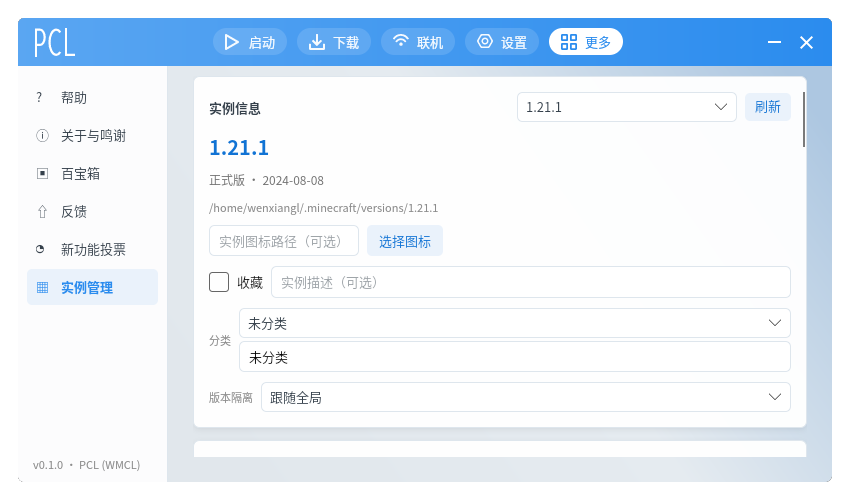
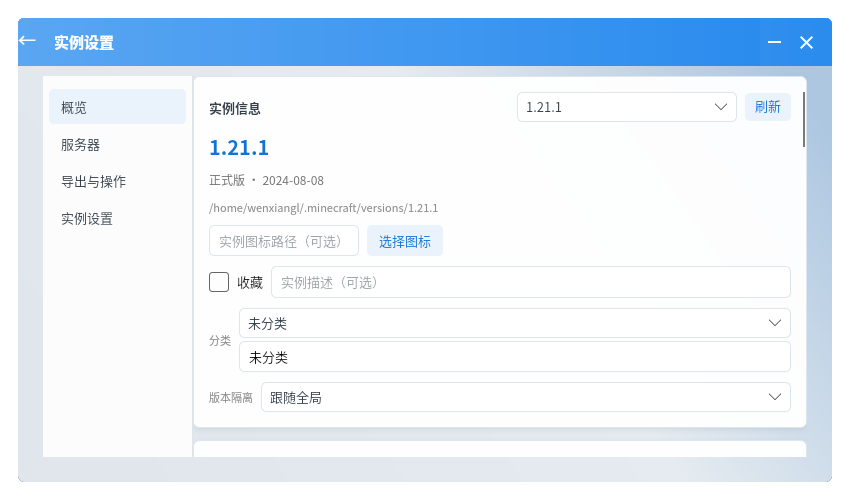
UI: instance section navigation

Changed region(s): [[0.0, 0.06, 0.2447, 0.99], [0.2447, 0.03, 0.7341, 0.12]]

diff --git a/src/WMCL.App/Views/InstanceView.axaml.cs b/src/WMCL.App/Views/InstanceView.axaml.cs
@@ -4,6 +4,21 @@ namespace WMCL.App.Views;
 
 public partial class InstanceView : UserControl
 {
+    private void OnSectionChanged(object? sender, SelectionChangedEventArgs e)
+    {
+        var index = SectionList?.SelectedIndex ?? -1;
+        if (index < 0) return;
+        var target = index switch
+        {
+            0 => OverviewCard,
+            1 => ServerCard,
+            2 => ExportCard,
+            3 => SettingsCard,
+            _ => null
+        };
+        target?.BringIntoView();
+    }
+
     private async void OnChooseExportPathClick(object? sender, Avalonia.Interactivity.RoutedEventArgs e)
     {
         if (DataContext is not ViewModels.InstanceViewModel viewModel) return;

diff --git a/docs/UI_LOGIC_AUDIT.md b/docs/UI_LOGIC_AUDIT.md
@@ -21,7 +21,7 @@
 | 8 | ~~`Filters`/`SelectedFilter` 死状态~~ | 已移除启动页筛选状态和无用过滤方法 |
 | 9 | ~~下载页对已安装版本禁用“安装”~~ | 已允许对已安装版本重新下载/补全（仍会走安装器的跳过/SHA1 逻辑） |
 | 10 | 下载页加载器仍是单独安装按钮；组合安装已改成“基础加载器 + OptiFine”组件选择 | 尚未做到 PCL2 的完整组件勾选 |
-| 11 | 实例页已取消重复列表，改为全宽卡片 + 顶部实例下拉；“更多”中的自定义“实例管理”已移除，改由版本选择进入 | 实例子导航项仍不完整 |
+| 11 | 实例页已加 150px 分区导航（概览/服务器/导出/设置）+ 全宽卡片；“更多”中的自定义“实例管理”已移除 | 分区项仍少于 PCL-CE |
 | 12 | Mod/整合包页仍是“列表 + 详情”双卡片 | 页面结构不同 |
 | 13 | 任务按钮的进度覆盖尚未在真实任务中做视觉验证 | 只编译验证，未运行验证 |
 

diff --git a/docs/UI_REFERENCE.md b/docs/UI_REFERENCE.md
@@ -35,7 +35,7 @@
 - PCL-ME 的 `PclCard` 标题栏/内容边距还未完全复刻；
 - PCL-ME 启动页的账号资料卡、启动按钮样式与本项目仍有差异；
 - PCL-CE 的 PageHomepage 新闻主页/PageTools 尚未实现；
-- 实例页已去掉页面内重复的 300px 实例列表，改为全宽卡片，顶部用实例下拉切换；
+- 实例页已去掉重复的 300px 实例列表，加入 150px 分区导航（概览/服务器/导出/设置），右侧全宽卡片，顶部实例下拉切换；
 - “更多”移除自定义“实例管理”项；实例设置按 PCL2 从版本选择进入，并作为子页入栈；
 - 整合包页改为左 300 / 右自适应，并补空状态；
 - 下载页加载器卡片默认收起（PCL2 卡片式），底部按钮改回 35px 普通按钮；
